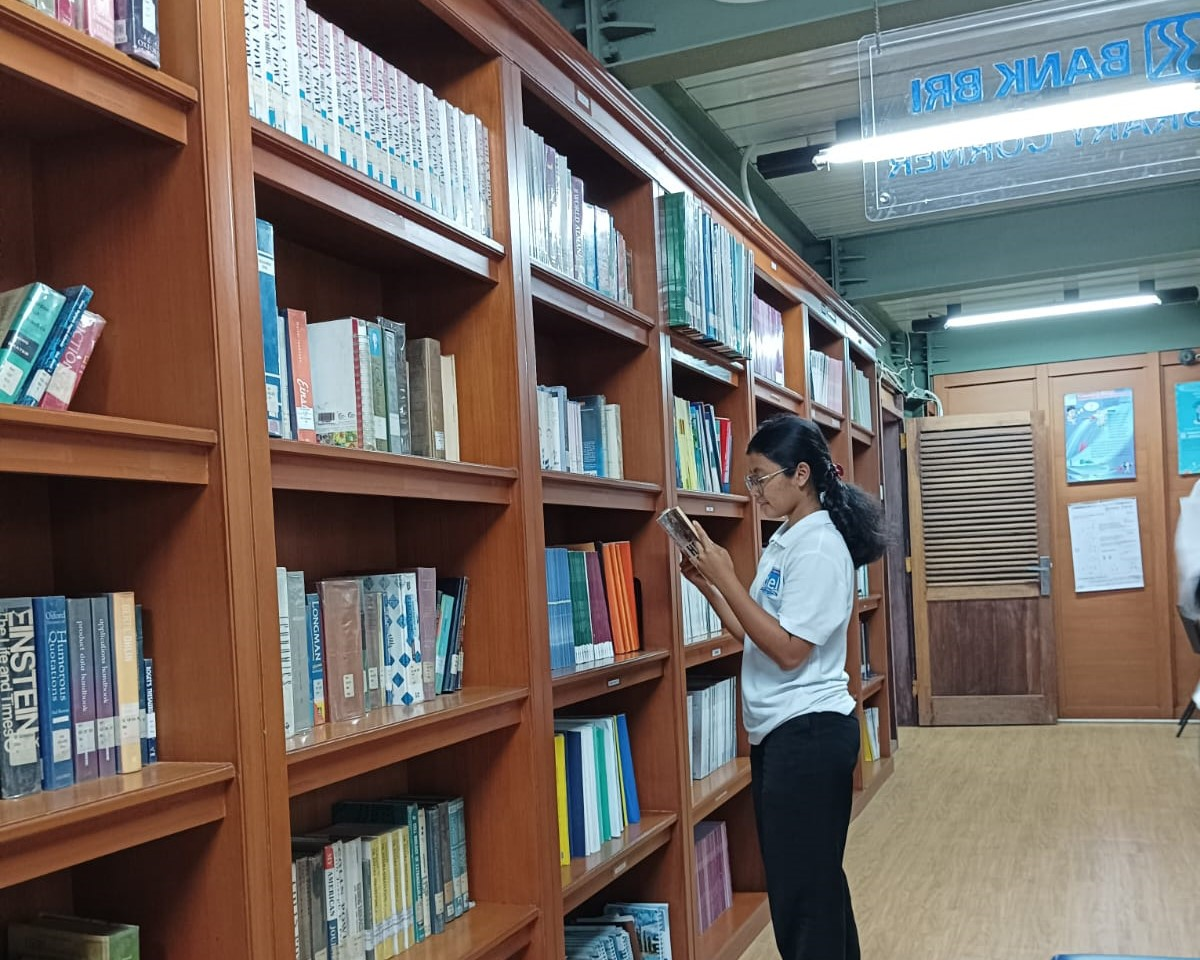
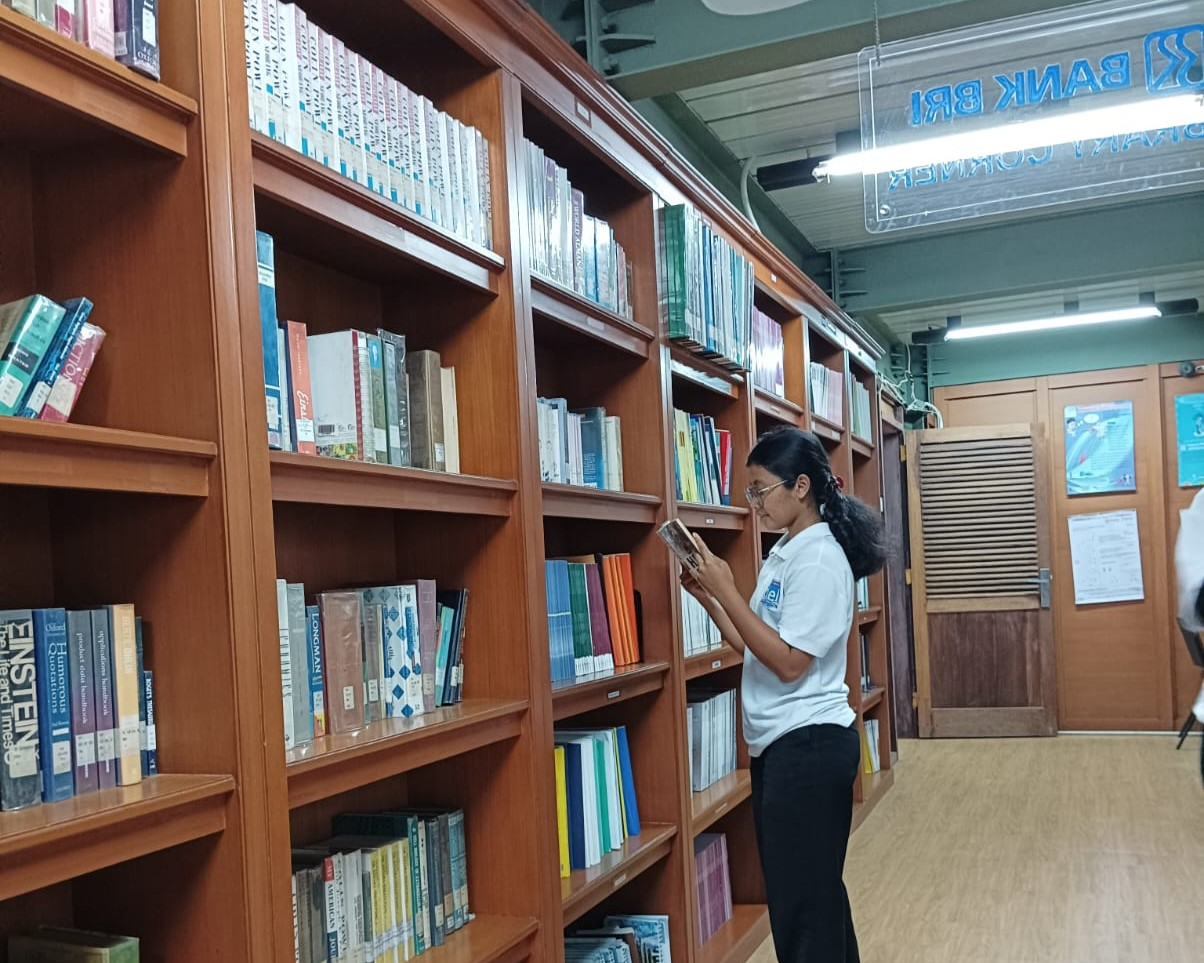
merubah asset gambar saung, perpustakaan, dan ruang kelas

diff --git a/resources/views/fasilitas/sub-fasilitas/fasilitasAreaMahasiswa.blade.php b/resources/views/fasilitas/sub-fasilitas/fasilitasAreaMahasiswa.blade.php
@@ -9,7 +9,7 @@
   <div class="container pt-5" id="ruangkelas">
             <div class="row">
                 <div class="col-md-6">
-                <img src="{{ asset('/assets/img/fasilitas/asrama-pniel.jpeg') }}" class="img-fluid custom-image" alt="asrama-pniel">
+                <img src="{{ asset('/assets/img/fasilitas/ruangkelas.jpg') }}" class="img-fluid custom-image" alt="asrama-pniel">
                 </div>
 
                 <div class="col-md-6 mx-auto d-flex flex-column my-auto">
@@ -26,7 +26,7 @@
           <div class="container pt-5" id="perpustakaan">
             <div class="row">
                 <div class="col-md-6">
-                <img src="{{ asset('/assets/img/fasilitas/asrama-pniel.jpeg') }}" class="img-fluid custom-image" alt="asrama-pniel">
+                <img src="{{ asset('/assets/img/fasilitas/perpustakaan.jpg') }}" class="img-fluid custom-image" alt="asrama-pniel">
                 </div>
 
                 <div class="col-md-6 mx-auto d-flex flex-column my-auto">
